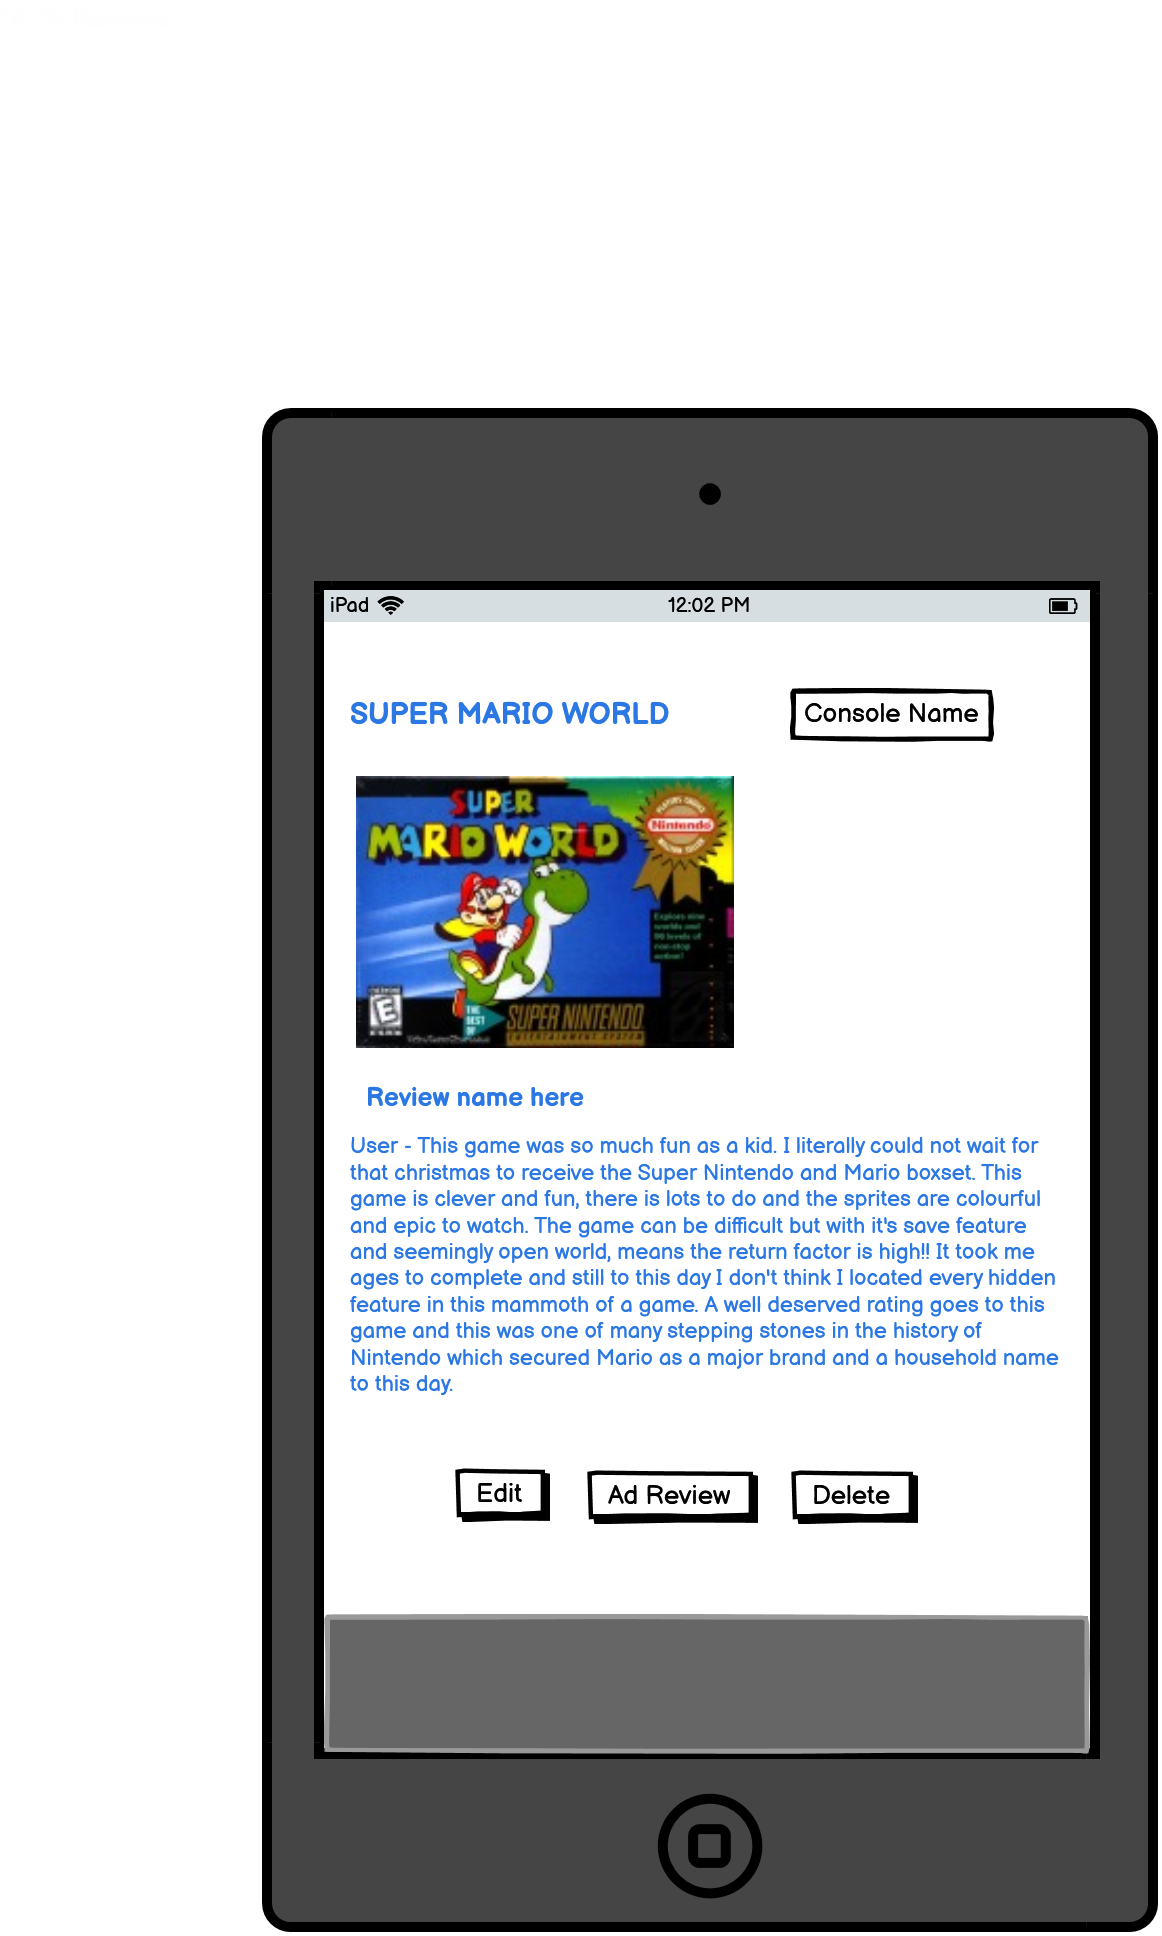
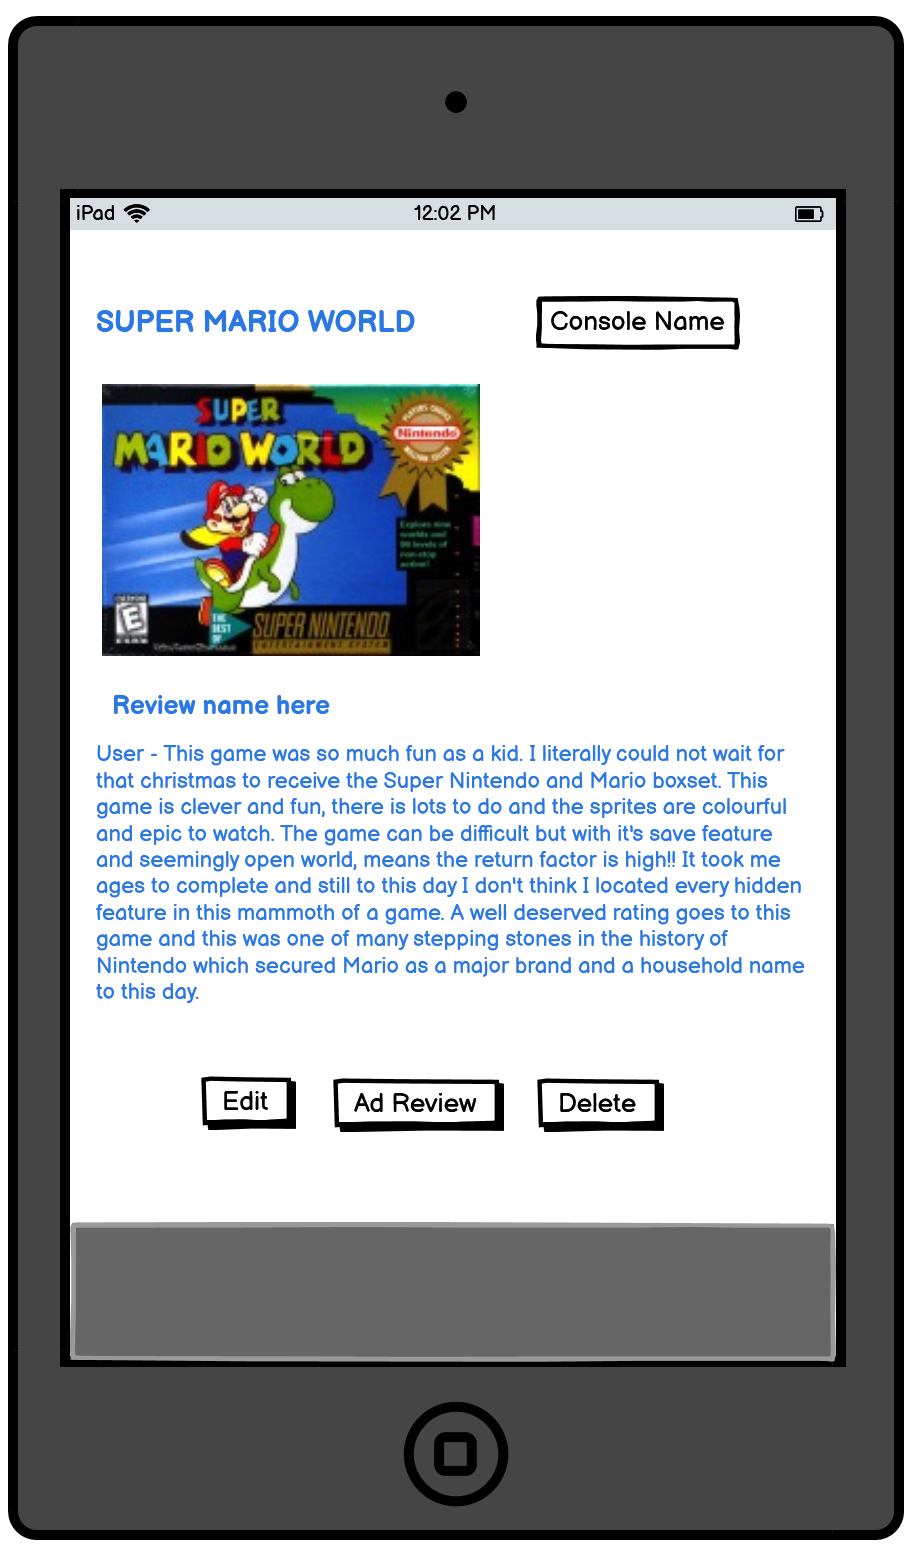
img added to wireframe

diff --git a/README.md b/README.md
@@ -85,12 +85,14 @@ The key here was to present the review data in a symetrical fashion and allow th
 
 The home page would display multiple reviews and the responsive element of the page meant that the amount of content shows would be reduced based on screen media sizes.
 
-# Desktop Open Review Page template
+## Desktop Open Review Page template
 ![wireframe5](https://github.com/famouswelshman/reviews-16bit/blob/main/static/wireframes/desktop_review_template.png)
 
-# Medium Media Open Review Page Template
+## Medium Media Open Review Page Template
 ![wireframe6](https://github.com/famouswelshman/reviews-16bit/blob/main/static/wireframes/medium_review_template.png)
 
+## Mobile Open Review Page Template
+![wireframe7]()
 
 
 # Database Schema (MongoDB)
